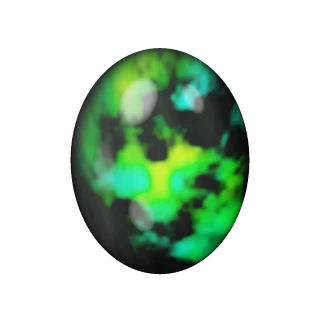
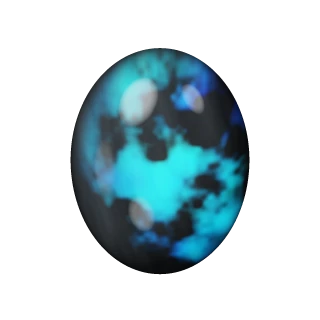
コレクションの宝石のカードとオークションの競りで宝石をその場で描く、ラブラドライトを青寄りに
- コレクションで 1 種類を開いたカードの宝石（持っている宝石）を mountLiveGem でその場で描く
- オークションの競りの会場の宝石（宝石の品）をその場で描き、落札の画面に移っても続ける。原石の詰め合わせは画像のまま
- ラブラドライトの石のひらめきを青寄りに（黄緑を減らし、青緑〜青に）。地の色も少し青みのある灰色に。百獣はそのまま
- sw.js の版数を v120 に上げ、開発の手引きと README を更新

Claude-Session: https://claude.ai/code/session_01HT7oCmE99FbJiSFLRkmS6y

Changed region(s): [[0.25, 0.1562, 0.7812, 0.8438], [0.7188, 0.3125, 0.7812, 0.4062]]

diff --git a/js/atelier-ui.js b/js/atelier-ui.js
@@ -14,6 +14,7 @@ import {
 } from './atelier.js';
 import { show, el, $, topbar, gemColor, wordTag, refreshCoinPill, guard, haptic, getApp, upperLv, toast } from './ui.js';
 import { showHub } from './menu.js';
+import { mountLiveGem } from './gem-gl.js';
 import { currentSession, awardLot, rivalsOf, rivalMax, startPrice, settleWithoutYou, wantLabel } from './auction.js';
 import { BEASTS, BEAST_IDS, BEAST_COST, jewelStock, beastLevel, beastValue, beastStats, raiseBeast, beastIcon } from './beasts.js';
 
@@ -504,6 +505,8 @@ function gemDetail(id) {
   $('#screens').appendChild(ov);
   $('#ok', ov).onclick = () => { audio.tap(); ov.remove(); };
   ov.onclick = (e) => { if (e.target === ov) ov.remove(); };
+  // 持っている宝石は、その場で描いて揺らす
+  if (has) mountLiveGem($('.gd-top img', ov), id);
 }
 
 
@@ -669,6 +672,8 @@ function startBidding(sess, lot, black) {
     <div class="hall-foot"><span>所持コイン <b>${fmt(save.coins)}</b></span><button class="btn small" id="aq">見送る</button></div>
   </div>`);
   show(node);
+  // 宝石の品は、その場で描いて揺らす（落札の画面に移っても続ける）
+  if (lot.kind !== 'bundle') mountLiveGem($('.hall-stage .lot-art img', node), lot.gem);
   const bids = [[0.05, '小刻み'], [0.1, '強気'], [0.25, '勝負']];
   const price = $('#ap', node), lead = $('#al', node), hamBar = $('#ah', node), hamLbl = $('#ahl', node), gavel = $('#gv', node);
   const seat = (r) => $(`.seat[data-r="${r.id}"]`, node);
@@ -781,6 +786,7 @@ function startBidding(sess, lot, black) {
         <button class="btn big primary" id="aok">${sess.cur < sess.lots.length ? `次の品へ（LOT ${sess.cur + 1}）` : '閉じる'}</button>
       </div>`);
       $('#screens').appendChild(ov);
+      if (lot.kind !== 'bundle') mountLiveGem($('.hall-stage .lot-art img', ov), lot.gem);
       guard($('#aok', ov), 600);
       $('#aok', ov).onclick = () => { audio.tap(); showAtelier(tab); };
     }, 900);

diff --git a/css/style.css b/css/style.css
@@ -863,7 +863,7 @@ button { font-family: inherit; cursor: pointer; color: inherit; }
 .coll-cell:not(.none) { border-color: color-mix(in srgb, var(--c) 45%, transparent); }
 .gem-detail { width: min(370px, 92vw); max-height: 86vh; overflow: auto; display: flex; flex-direction: column; gap: 4px; }
 .gd-top { display: flex; gap: 12px; align-items: center; margin-bottom: 6px; }
-.gd-top img { width: 80px; height: 80px; flex: none; }
+.gd-top img, .gd-top canvas { width: 80px; height: 80px; flex: none; }
 .gd-name { font-family: var(--font-jp); font-weight: 900; font-size: 20px; white-space: nowrap; }
 .gd-en { font-family: var(--font); font-size: 11px; letter-spacing: 0.16em; color: var(--muted); margin-bottom: 4px; }
 .gd-next { font-family: var(--font-jp); font-size: 12px; color: #ffe39a; line-height: 1.6; margin: 6px 0; }
@@ -1099,7 +1099,7 @@ button { font-family: inherit; cursor: pointer; color: inherit; }
 /* 品の絵：宝石はひとつ、詰め合わせは原石を重ねて */
 .lot-art { position: relative; width: 64px; height: 64px; flex: none; display: grid; place-items: center; }
 .lot-art::before { content: ''; position: absolute; inset: -6px; border-radius: 50%; background: radial-gradient(circle, color-mix(in srgb, var(--c) 45%, transparent), transparent 68%); }
-.lot-art img { position: relative; width: 100%; height: 100%; object-fit: contain; filter: drop-shadow(0 4px 6px rgba(0,0,0,0.6)) drop-shadow(0 0 8px color-mix(in srgb, var(--c) 70%, transparent)); }
+.lot-art img, .lot-art canvas { position: relative; width: 100%; height: 100%; object-fit: contain; filter: drop-shadow(0 4px 6px rgba(0,0,0,0.6)) drop-shadow(0 0 8px color-mix(in srgb, var(--c) 70%, transparent)); }
 .lot-art.bundle img { position: absolute; width: 62%; height: 62%; left: calc(4% + var(--i) * 18%); top: calc(30% - var(--i) * 10%); }
 /* ライバルの席 */
 .seats { display: grid; grid-template-columns: repeat(3, minmax(0, 1fr)); gap: 6px; }

diff --git a/js/gem-gl.js b/js/gem-gl.js
@@ -3,7 +3,7 @@
 //  カットを平面の集合（凸多面体）で作り、屈折・内部反射（全反射）・フレネル・
 //  波長ごとの屈折率（分散）・色の吸収を計算する。不透明な石はカボション・カット面・
 //  丸く磨いた石の描き方を持つ。
-//  ホームとジュエル選択の宝石はその場で描き（mountLiveGem）、ほかのアイコンは
+//  ホーム・ジュエル選択・コレクションのカード・オークションの宝石はその場で描き（mountLiveGem）、ほかのアイコンは
 //  同じ計算で書き出した画像（img/gems/*.webp。tools/gem-bake.html と tools/test/gem-bake.js）を使う
 // =====================================================================
 
@@ -248,10 +248,10 @@ void stone(vec2 q, vec3 n, vec3 r, out vec3 alb, out vec3 emit, out float tr){
     emit = vec3(.55, .85, 1.9) * gl; tr = .55;
   } else if (uKind == 2) {
     float st = fbm(vec2(x * 1.5 + y * .4, (y - x * .3) * 7.), 5, 31.);
-    alb = mix(vec3(.06, .07, .07), vec3(.2, .22, .2), st);
+    alb = mix(vec3(.06, .07, .08), vec3(.19, .21, .23), st);
     float pch = smoothstep(.38, .62, fbm(q * 2.2, 4, 41.)) * (.6 + .4 * st);
     float fl = pow(clamp(dot(n, normalize(vec3(.3, -.25, .92))), 0., 1.), 3.);
-    emit = spectral(.58 - fbm(q * 1.6, 3, 51.) * .5) * pch * fl * 2.4;
+    emit = spectral(.72 - fbm(q * 1.6, 3, 51.) * .34) * pch * fl * 2.4;
   } else if (uKind == 3) {
     alb = mix(vec3(.04, .55, .55), vec3(.25, .8, .74), fbm(q * 3., 5, 61.));
     float rv = 1. - abs(fbm(q * 2.4, 5, 71.) * 2. - 1.);

diff --git a/sw.js b/sw.js
@@ -1,5 +1,5 @@
 // オフラインでも あそべるように キャッシュする
-const CACHE = 'jewel-survivor-v119';
+const CACHE = 'jewel-survivor-v120';
 const ASSETS = [
   './', './index.html', './css/style.css', './manifest.webmanifest',
   './js/main.js', './js/game.js', './js/weapons.js', './js/data.js', './js/render.js', './js/fx.js',

diff --git a/CLAUDE.md b/CLAUDE.md
@@ -45,7 +45,7 @@
 - 大きい背景の光（.rays）を入れるスクロールする画面は `.rays-clip` で包む（スクロールの範囲が光の分だけ広がるため）。はみ出しうる画面の中央寄せは前後の余白 auto で行う（justify-content: center だと上側に届かない）。
 - コイン報酬のアイコンは coinIcon。ユーザーランクは称号の素材の見た目（`.rk-mat` ＋ `.rk-acrylic` / `.rk-glass` / `.rk-crystal`。タイトル左上のチップ・詳細の板・称号の段で共通）。
 - ステージのカード（ステージ選択・図鑑）の背景は scene-art.js の風景（`has-scene` と `--scene`。ui.js の paintScenes が、描き済みはすぐ、まだのものは 1 枚ずつ間をあけて描いて貼る）。カードを選んだときは作り直さず選択の枠だけ付け替える（markSel。作り直すと風景がちらつく）。
-- 宝石の絵は光線追跡（gem-gl.js。カットを平面の集合で作り、屈折・全反射・分散・吸収を計算する。不透明な石はカボション・カット面・丸く磨いた石の描き方）。アイコン（gemIcon）は書き出した画像 `img/gems/<id>.webp` を返す。ホームとジュエル選択の宝石は mountLiveGem でその場で描く（画像の横にキャンバスを置いて入れ替える。キャンバスと WebGL はアプリで 1 つを使い回し、画像が画面から外れると止まる。WebGL が使えないときは画像のまま）。ゲーム中の弾などの小さな宝石は gem-art.js の絵（gemSprite）。見た目を変えたら tools/test/gem-bake.js で書き出し直して画像もコミットする。
+- 宝石の絵は光線追跡（gem-gl.js。カットを平面の集合で作り、屈折・全反射・分散・吸収を計算する。不透明な石はカボション・カット面・丸く磨いた石の描き方）。アイコン（gemIcon）は書き出した画像 `img/gems/<id>.webp` を返す。ホーム・ジュエル選択・コレクションの宝石のカード（持っている宝石）・オークションの競りと落札の画面（宝石の品）の宝石は mountLiveGem でその場で描く（画像の横にキャンバスを置いて入れ替える。キャンバスと WebGL はアプリで 1 つを使い回し、画像が画面から外れると止まる。WebGL が使えないときは画像のまま）。ゲーム中の弾などの小さな宝石は gem-art.js の絵（gemSprite）。見た目を変えたら tools/test/gem-bake.js で書き出し直して画像もコミットする。
 - ジュエル選択の宝石は額装（case-art.js。奥のベルベット `showcaseBack` は宝石の色の彩度を大きく落としてうっすら乗せる、手前の枠 `showcaseFront` は共通の 1 枚。宝石は gemIcon の img を間に置き、影の位置は `CASE_GEM` と CSS の `.sc-gem` で合わせる）。
 - 実績はメダル（ui.js の medalTier で報酬から 銅・銀・金・虹、`.medal`）。図鑑の敵はモンスターカード（`.mon`。未遭遇はシルエット、ボスは金の額縁）、武器・チャームは属性の色の縁取り（`.gemcard`）。
 
@@ -252,7 +252,7 @@
 ## 6. リリース手順
 
 1. 作業ブランチはセッションで指定されたもの。main に取り込むときに origin/main から作り直すので、先に `git status` で未コミットの新規ファイルを確認する。
-2. sw.js の `CACHE` の版数を 1 つ上げる（現在 `jewel-survivor-v119`）。新しいファイルは `ASSETS` にも足す。
+2. sw.js の `CACHE` の版数を 1 つ上げる（現在 `jewel-survivor-v120`）。新しいファイルは `ASSETS` にも足す。
 3. `node --check` と、変えた箇所だけのテスト。
 4. 取り込み：
    ```sh

diff --git a/README.md b/README.md
@@ -87,7 +87,7 @@ js/enemies.js         新種の敵とボスの行動
 js/hazards.js         ステージギミック（柱・溶岩・吹雪・暗闇・泡・門・お茶会・黒い星・流れ星・混沌の泡・つむじ風・濁流・鼎・舞の輪）
 js/data.js            ジュエル・ジュエルパワー・武器・敵・工房・実績
 js/render.js          宝石／敵／キャラの手続き型描画
-js/gem-gl.js          宝石の光線追跡（WebGL2）。ホームとジュエル選択の宝石をその場で描き、アイコンの画像も書き出す
+js/gem-gl.js          宝石の光線追跡（WebGL2）。ホーム・ジュエル選択・コレクションのカード・オークションの宝石をその場で描き、アイコンの画像も書き出す
 img/gems/             宝石のアイコン（js/gem-gl.js で書き出した画像）
 img/beasts/           百獣の彫刻の絵（tools/beast-art.js で書き出した画像）
 js/fx.js              パーティクル・ダメージ表示・雷
